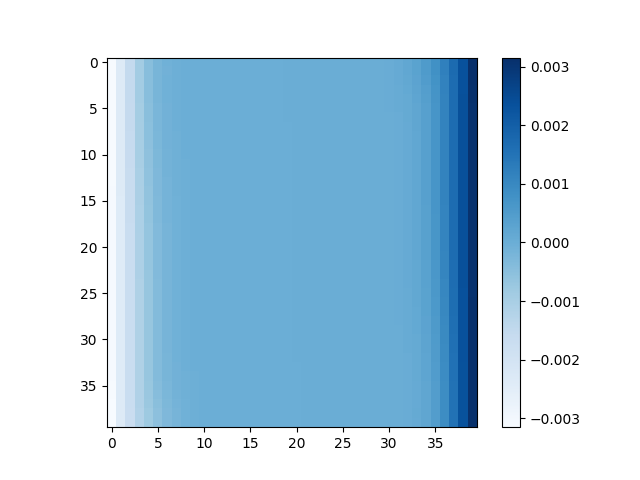
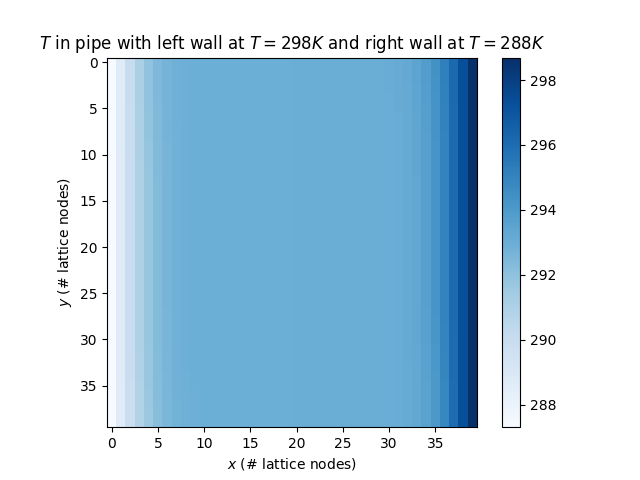
Commit 1 19feb

diff --git a/sq_cav_th_trt.py b/sq_cav_th_trt.py
@@ -15,14 +15,14 @@ pd.set_option("display.max_rows", None, "display.max_columns", None)
 L = 0.01            # m
 H = 0.01            # m
 g = 9.81            # m/s^2
-T = 2               # s
+Time = 10           # s
 nu = 1e-6           # m^2/s
 alpha = 1.44e-7     # m^2/s
 rho0 = 1e3          # kg/m^3
 beta = 210e-6       # 1/K
 T0 = 293            # K
-T_C = 280           # K
-T_H = 306           # K
+T_C = 288           # K
+T_H = 298           # K
 umax = np.sqrt(g * beta * (T_H - T0) * L)
 
 # Dimensionless numbers
@@ -53,6 +53,7 @@ dx = H / Ny
 dt = c_s ** 2 * (tau_plus - 1 / 2) * dx ** 2 / nu
 print('dt', dt)
 Cu = dx / dt
+print('Cu', Cu)
 Cg = dx / dt**2
 Crho = rho0 / rho0_sim
 CF = Crho * Cg
@@ -69,7 +70,7 @@ alpha_sim = nu_sim / Pr
 
 # Grid and time steps
 Nx = Ny                     # lattice nodes in the x-direction
-Nt = np.int(T / dt)         # time steps
+Nt = np.int(Time / dt)         # time steps
 
 # Forces
 g_sim = g / Cg * np.array([0, -1])
@@ -334,19 +335,17 @@ def temperature(T, alpha, ux, uy, T_BC_lower, T_BC_upper):
 
     # easy_view(1, T_new)
     # T BCs
-    # T_new[0, :] = 8/3 * T_BC_lower - 2 * T_new[1, :] + 1/3 * T_new[2, :]
-    # T_new[-1, :] = 8/3 * T_BC_upper - 2 * T_new[-2, :] + 1/3 * T_new[-3, :]
-
-    T_new[0, 1:Ny-1] = 8/3 * T_BC_lower[1:Ny-1] - 2 * T_new[1, 1:Ny-1] + 1/3 * T_new[2, 1:Ny-1]
-    T_new[-1, 1:Ny-1] = 8/3 * T_BC_upper[1:Ny-1] - 2 * T_new[-2, 1:Ny-1] + 1/3 * T_new[-3, 1:Ny-1]
+    T_new[0, 1:Ny-1] = 8/15 * T_BC_lower[1:Ny-1] + 2/3 * T_new[1, 1:Ny-1] - 1/5 * T_new[2, 1:Ny-1]
+    T_new[-1, 1:Ny-1] = 8/15 * T_BC_upper[1:Ny-1] + 2/3 * T_new[-2, 1:Ny-1] - 1/5 * T_new[-3, 1:Ny-1]
 
     # easy_view(2, T_new)
 
     # Adiabatic BCs
-    # T_new[1:Nx-1, 0] = 21/23 * T_new[1:Nx-1, 1] + 3/23 * T_new[1:Nx-1, 2] - 1/23 * T_new[1:Nx-1, 3]
-    # T_new[1:Nx-1, -1] = 21/23 * T_new[1:Nx-1, -1] + 3/23 * T_new[1:Nx-1, -2] - 1/23 * T_new[1:Nx-1, -3]
-    T_new[:, 0] = 21/23 * T_new[:, 1] + 3/23 * T_new[:, 2] - 1/23 * T_new[:, 3]
-    T_new[:, -1] = 21/23 * T_new[:, -2] + 3/23 * T_new[:, -3] - 1/23 * T_new[:, -4]
+    T_new[:, 0] = 3/2 * T_new[:, 1] - 1/2 * T_new[:, 2]
+    T_new[:, -1] = 3/2 * T_new[:, -2] - 1/2 * T_new[:, -3]
+
+    # T_new[:, 0] = 21/23 * T_new[:, 1] + 3/23 * T_new[:, 2] - 1/23 * T_new[:, 3]
+    # T_new[:, -1] = 21/23 * T_new[:, -2] + 3/23 * T_new[:, -3] - 1/23 * T_new[:, -4]
 
     # easy_view(3, T_new)
 
@@ -368,8 +367,8 @@ for t in range(Nt):
     # Calculate macroscopic quantities
     #### IN TERMEN VAN EVEN FUNCTIES
     rho = np.sum(f_plus, axis=2)
-    ux = np.sum(f_minus[:, :] * c_i[:, 0], axis=2)     #(np.sum(f_i[:, :, [1, 5, 8]], axis=2) - np.sum(f_i[:, :, [3, 6, 7]], axis=2)) / rho + F_buoy[:, :, 0] / 2
-    uy = np.sum(f_minus[:, :] * c_i[:, 1], axis=2)     #(np.sum(f_i[:, :, [2, 5, 6]], axis=2) - np.sum(f_i[:, :, [4, 7, 8]], axis=2)) / rho + F_buoy[:, :, 1] / 24
+    ux = 0 * np.sum(f_minus[:, :] * c_i[:, 0], axis=2)
+    uy = 0 * np.sum(f_minus[:, :] * c_i[:, 1], axis=2)
 
     # print(1, T_dim)
     T_dim = temperature(T_dim, alpha_sim, ux, uy, T_BC_C, T_BC_H)   # New T
@@ -414,10 +413,12 @@ R = r_phys[-1]
 umax_sim = np.amax(ux[np.int(np.rint(Nx / 2)), 1:Ny])
 u_th = umax_sim * (1 - r_phys ** 2 / R ** 2)
 
+T = T_dim / beta + T0
+
 ## Vector plot
 # plt.figure(np.int(t/200)+1)
-x = np.linspace(0, L, len(ux))
-y = np.linspace(0, H, len(uy))
+x = np.linspace(dx, L-dx, len(ux))
+y = np.linspace(dx, H-dx, len(uy))
 # fig = ff.create_streamline(x, y, ux.T, uy.T)
 # fig.show()
 # plt.xlabel('$x$ (# lattice nodes)')
@@ -426,31 +427,48 @@ y = np.linspace(0, H, len(uy))
 # plt.legend('Velocity vector')
 # plt.savefig("Figures/sq_cav_th/arrowplot_temp" + str(t-2) + ".png")
 
-# ## Vector plot
+## Vector plot
 # plt.figure(np.int(t/200)+2, dpi=300)
-# plt.quiver(ux.T, uy.T)
+# plt.quiver(Cu*ux.T, Cu*uy.T)
 # plt.xlabel('$x$ (# lattice nodes)')
 # plt.ylabel('$y$ (# lattice nodes)')
-# plt.title('Velocity profile in pipe with hot plate for $x < L/2$ and cold plate for $x > L/2$. \n $p>0$')
+# plt.title('$u$ in pipe with left wall at $T=298K$ and right wall at $T=288K$')
 # # plt.legend('Velocity vector')
-# plt.savefig("Figures/sq_cav_th/arrowplot_temp" + str(4) + ".png")
-
-## Heatmaps
-plt.figure(2)
-plt.clf()
-plt.imshow(ux.T, cmap=cm.Blues, origin='lower')
-plt.colorbar()
-plt.savefig("Figures/sq_cav_th/heatmapx_temp" + str(5.1) + ".png")
-
-plt.figure(3)
-plt.clf()
-plt.imshow(np.flip(uy, axis=1).T, cmap=cm.Blues)
-plt.colorbar()
-plt.savefig("Figures/sq_cav_th/heatmap_uy_temp" + str(5.2) + ".png")
+# plt.savefig("Figures/sq_cav_th/arrowplot_" + str(1) + "_time10.png")
+#
+# # Heatmaps
+# plt.figure(2)
+# plt.clf()
+# plt.imshow(Cu*ux.T, cmap=cm.Blues, origin='lower')
+# plt.xlabel('$x$ (# lattice nodes)')
+# plt.ylabel('$y$ (# lattice nodes)')
+# plt.title('$u_x$ in pipe with left wall at $T=298K$ and right wall at $T=288K$')
+# plt.colorbar()
+# plt.savefig("Figures/sq_cav_th/heatmapx_" + str(2) + "_time10.png")
+#
+# plt.figure(3)
+# plt.clf()
+# plt.imshow(np.flip(Cu*uy, axis=1).T, cmap=cm.Blues)
+# plt.xlabel('$x$ (# lattice nodes)')
+# plt.ylabel('$y$ (# lattice nodes)')
+# plt.title('$u_y$ in pipe with left wall at $T=298K$ and right wall at $T=288K$')
+# plt.colorbar()
+# plt.savefig("Figures/sq_cav_th/heatmap_uy_" + str(3) + "_time10.png")
 
 ## Temperature heatmap
 plt.figure(4)
 plt.clf()
-plt.imshow(np.flip(T_dim.T, axis=0), cmap=cm.Blues)
+plt.imshow(np.flip(T.T, axis=0), cmap=cm.Blues)
+plt.xlabel('$x$ (# lattice nodes)')
+plt.ylabel('$y$ (# lattice nodes)')
+plt.title('$T$ in cavity with left wall at $T=298K$ and right wall at $T=288K$. No flow.')
 plt.colorbar()
-plt.savefig("Figures/sq_cav_th/heatmap_T" + str(5.3) + ".png")
+plt.savefig(f"Figures/sq_cav_th/heatmap_T_adv_newBCs_time{Time}" + str() + ".png")
+
+## Temperature line plot
+plt.figure(0)
+plt.plot(x, T[:, 0])
+plt.xlabel('$x$ (m)')
+plt.ylabel('$T$ (K)')
+plt.title('$T$ in cavity with left wall at $T=298K$ and right wall at $T=288K$. 1D cross section.')
+plt.savefig(f"Figures/sq_cav_th/lineplot_T_adv_newBCs_time{Time}" + str() + ".png")
